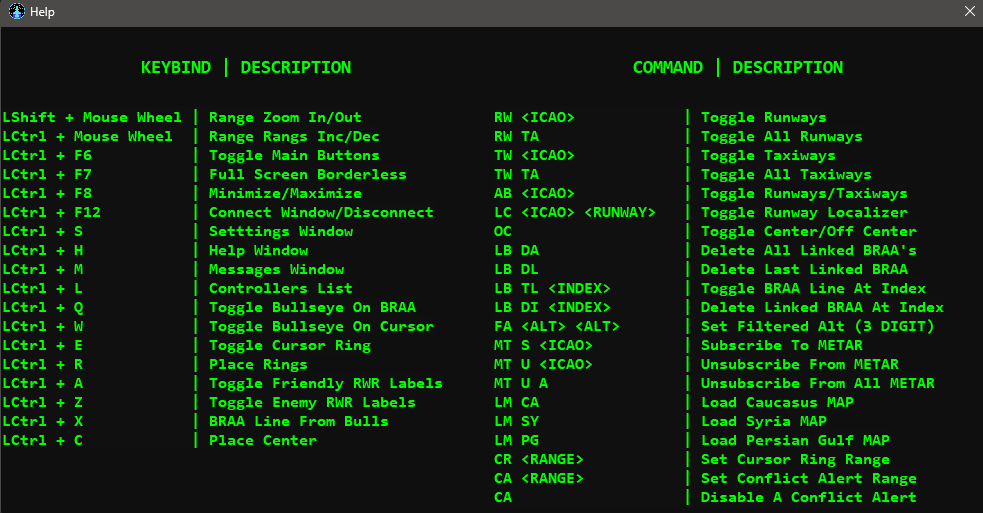
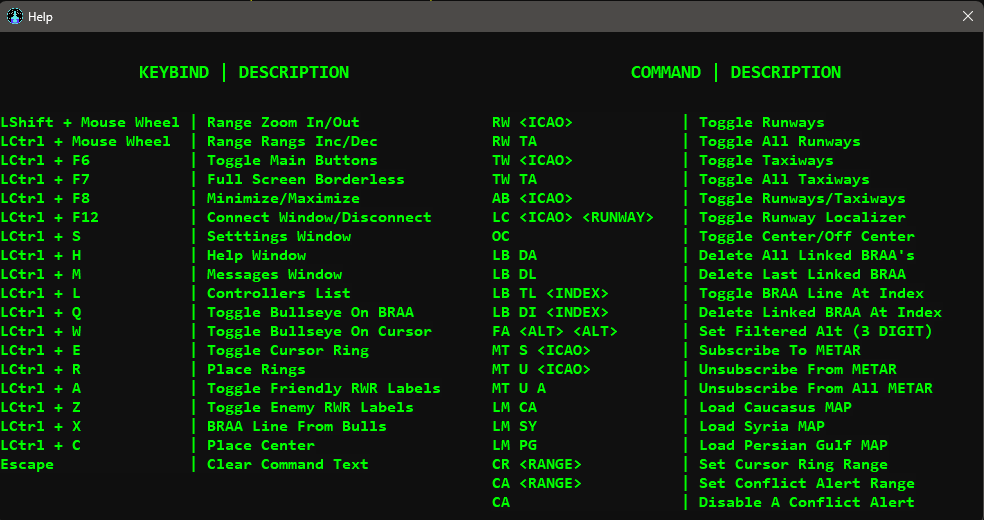
v0.0.2.8
# Help WIndow
- [ADDED]  escape keybind reference

# Documentation
- [UPDATED] help window image

diff --git a/README.md b/README.md
@@ -99,6 +99,7 @@ LCtrl + A            | [Toggle Friendly RWR Labels](#air-defense--ship-defense-r
 LCtrl + Z            | [Toggle Enemy RWR Labels](#air-defense--ship-defense-rings)
 LCtrl + X            | [BRAA Line From Bulls](#braa-from-bullseye)
 LCtrl + C            | [Place Center](#place-cntr)
+Escape               | Clear [command](#command-area) text
 
 
 ### **Commands**
